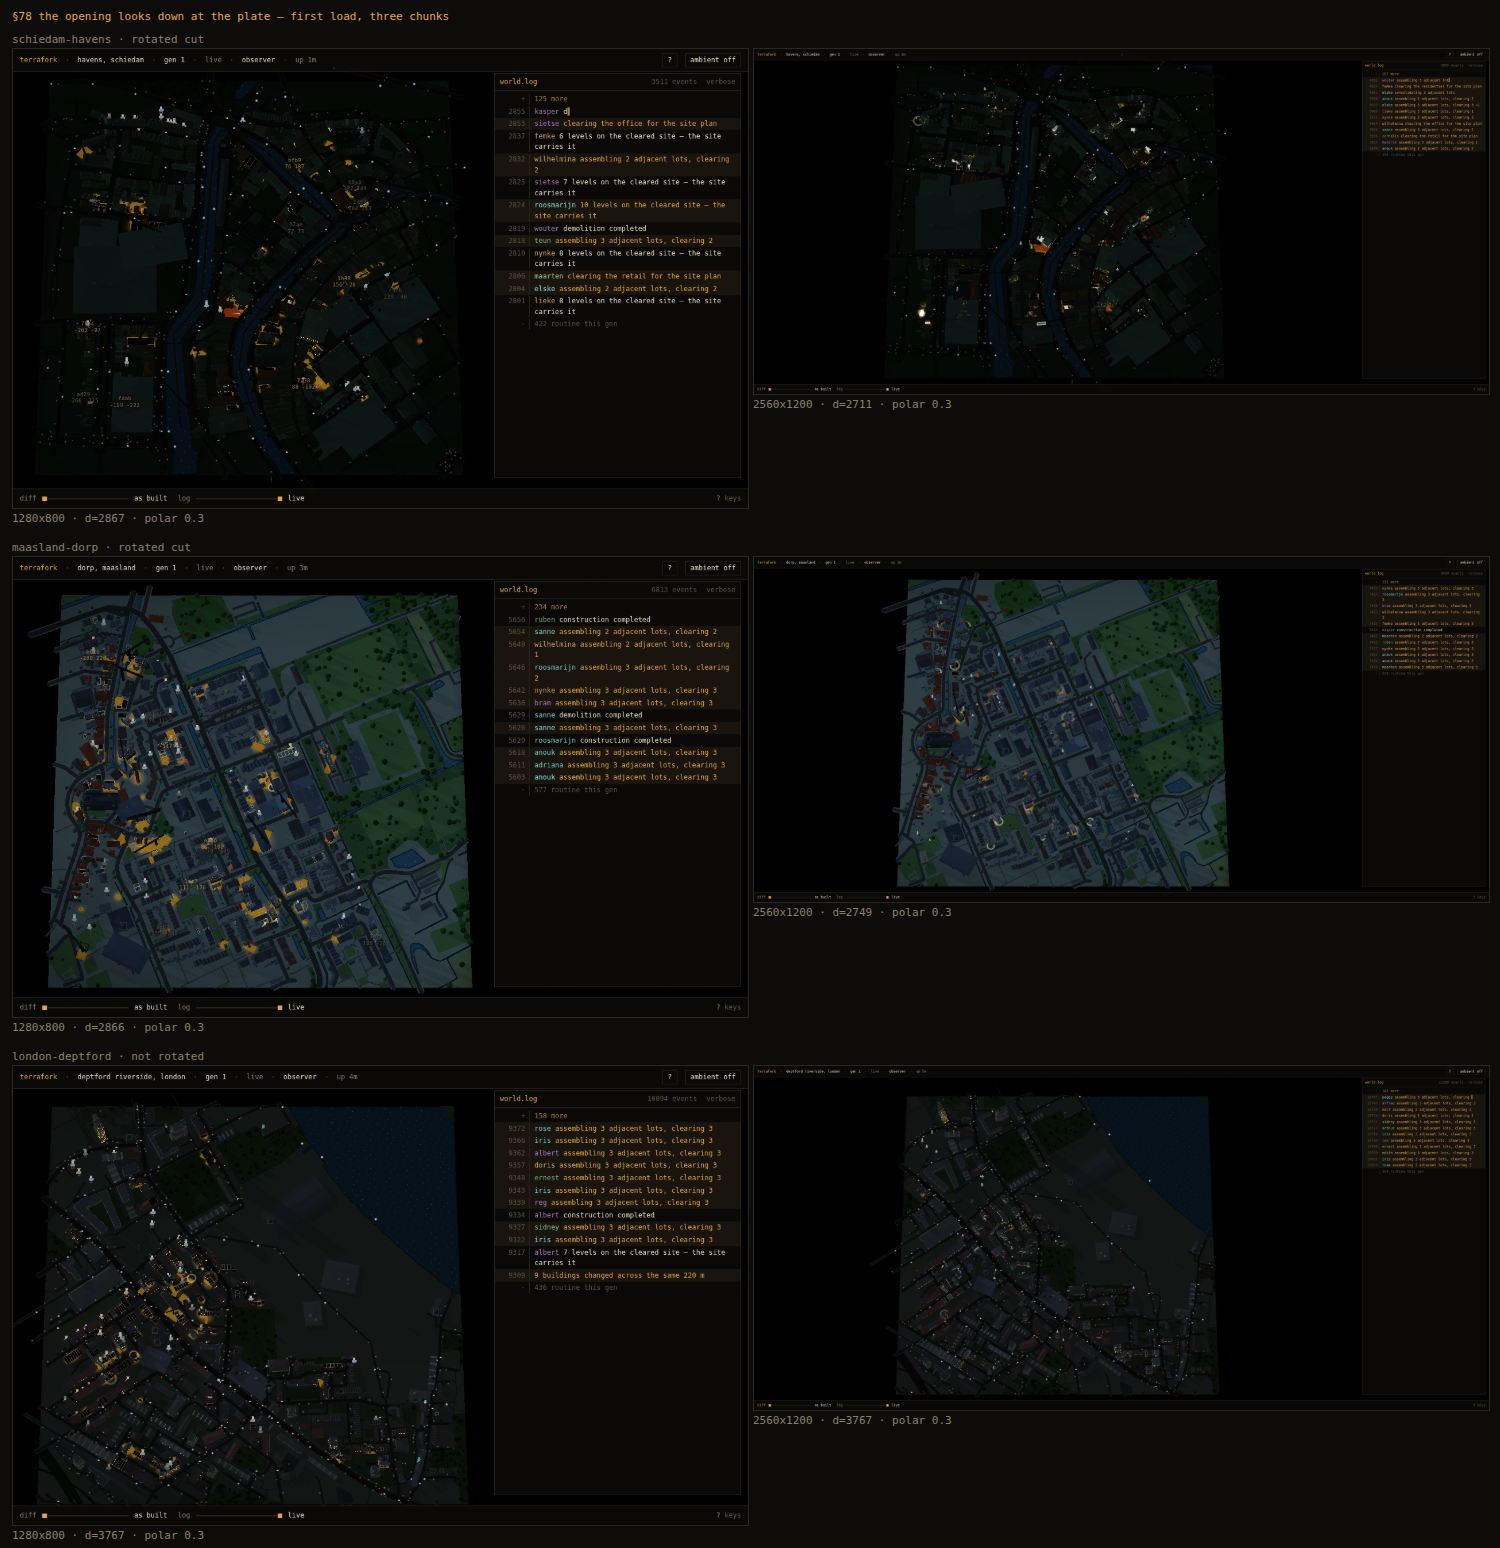
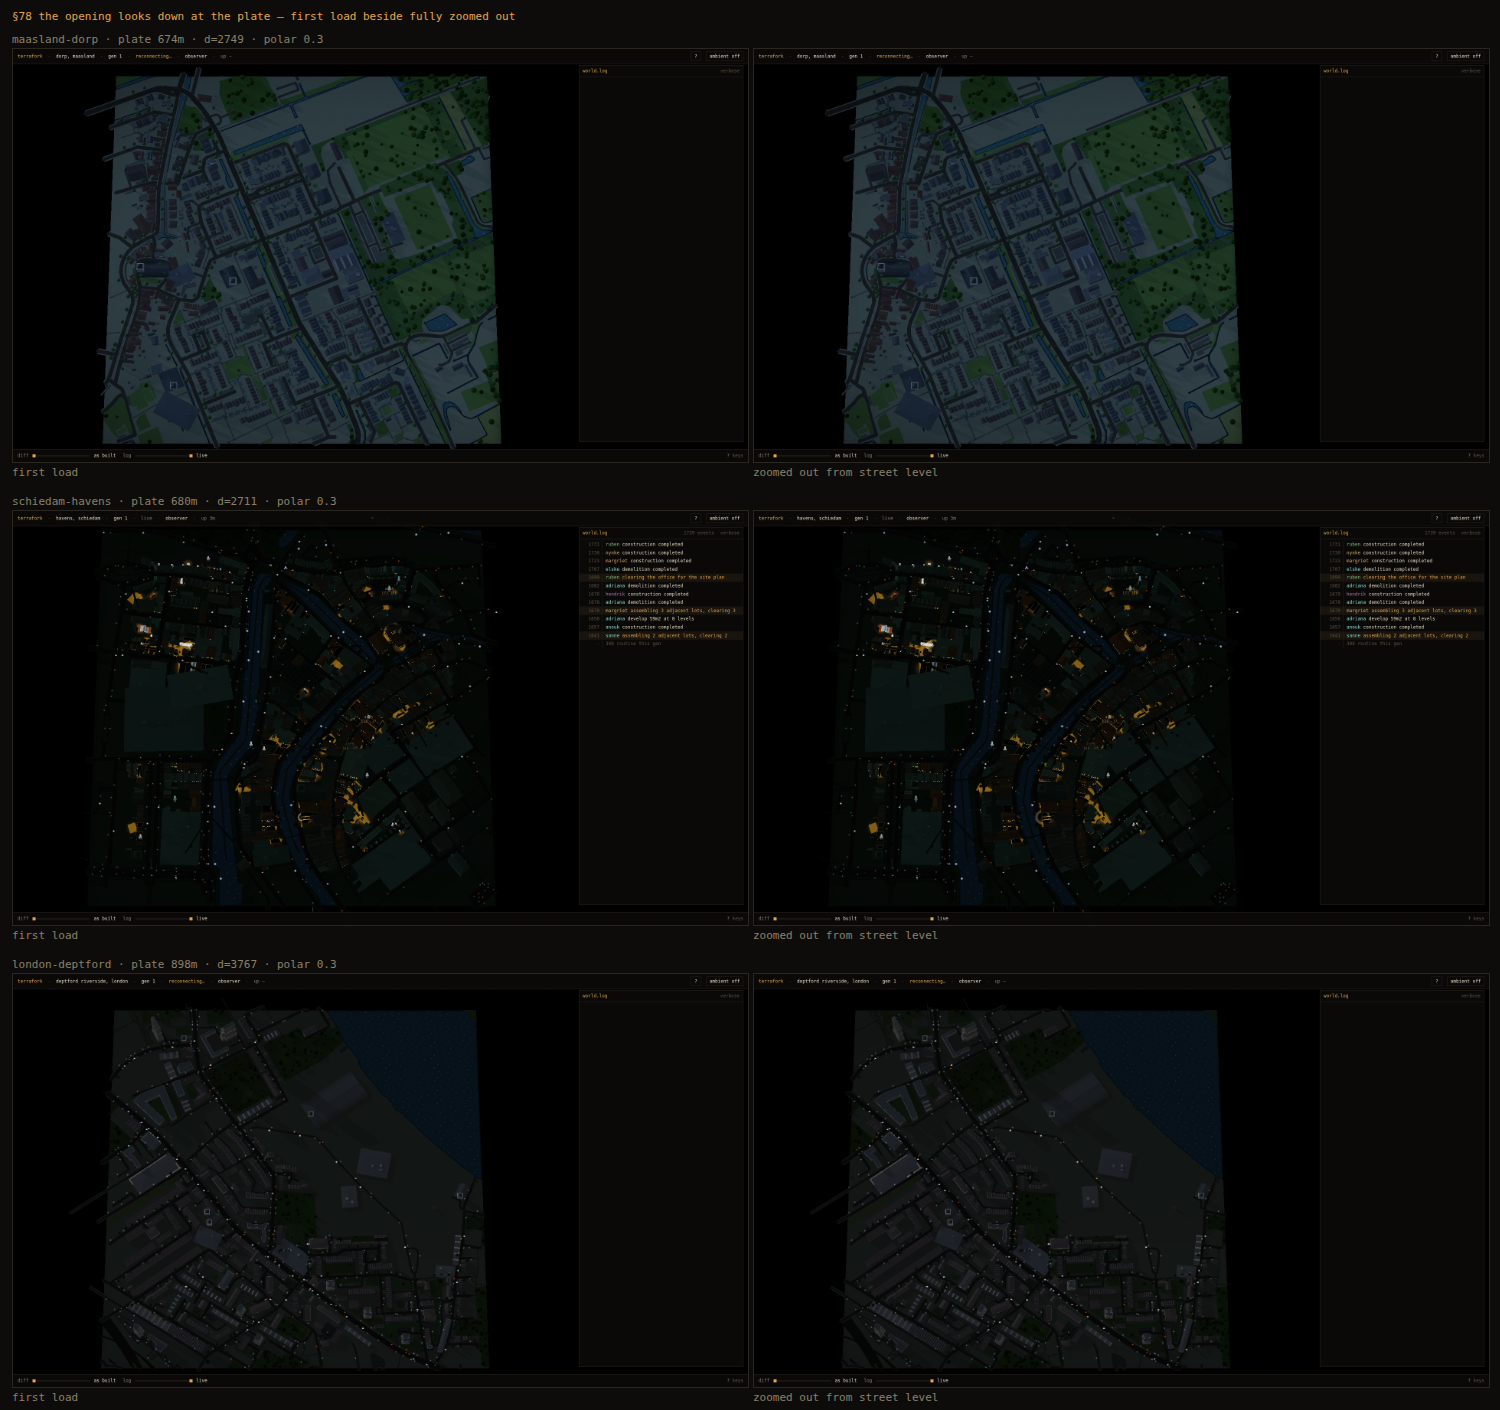
§78 acceptance: the overhead opening verified on three chunks
§78 changed the far end of the pitch curve; its acceptance had only been run
across window WIDTHS on schiedam. This runs it across the axis §78 actually
named — the chunk — because the plate's size and its relationship to the city
differ per cut, and a framing solve that works on one is not evidence about
the others.

  maasland-dorp     plate 674m   d=2749   polar 0.30   L.317 R.274 T.133 B.090
  schiedam-havens   plate 680m   d=2711   polar 0.30   L.263 R.293 T.090 B.091
  london-deptford   plate 898m   d=3767   polar 0.30   L.312 R.317 T.176 B.091

Margins are reported PER SIDE rather than as a worst corner, because "the
plate runs off three edges" was the reported symptom and a single worst-case
cannot say which edge or whether three are tight while one is generous.

4/4 pre-registered assertions hold: every side has margin, the camera is above
the city at polar 0.30 on all three, first load and fully-zoomed-out are the
same framing to the metre, and zoom-out from street level lands exactly on
maxDistance rather than short of it or past it.

The three plates differ in size (674 / 680 / 898 m), which is also the check
that the per-chunk routing is real rather than schiedam captured three times.

Judged by looking, as asked. All three show the whole fabric from above with
the fabric's own edge inside the frame on every side: maasland's village core
and green belt, deptford's terrace grain with the Thames in the corner. Both
[…]

diff --git a/tools/watch/overhead/overhead.html b/tools/watch/overhead/overhead.html
@@ -7,5 +7,14 @@
     figure{margin:0}
     img{width:100%;display:block;border:1px solid #2a2620}
     figcaption{padding-top:3px}
-   </style><h1>§78 the opening looks down at the plate — first load, three chunks</h1>
-   <section><h2>schiedam-havens · rotated cut</h2><div class="p"><figure><img src="shots/schiedam-havens-1280x800.png"><figcaption>1280x800 · d=2867 · polar 0.3</figcaption></figure><figure><img src="shots/schiedam-havens-2560x1200.png"><figcaption>2560x1200 · d=2711 · polar 0.3</figcaption></figure></div></section><section><h2>maasland-dorp · rotated cut</h2><div class="p"><figure><img src="shots/maasland-dorp-1280x800.png"><figcaption>1280x800 · d=2866 · polar 0.3</figcaption></figure><figure><img src="shots/maasland-dorp-2560x1200.png"><figcaption>2560x1200 · d=2749 · polar 0.3</figcaption></figure></div></section><section><h2>london-deptford · not rotated</h2><div class="p"><figure><img src="shots/london-deptford-1280x800.png"><figcaption>1280x800 · d=3767 · polar 0.3</figcaption></figure><figure><img src="shots/london-deptford-2560x1200.png"><figcaption>2560x1200 · d=3767 · polar 0.3</figcaption></figure></div></section>
+   </style><h1>§78 the opening looks down at the plate — first load beside fully zoomed out</h1>
+   <section><h2>maasland-dorp · plate 674m · d=2749 · polar 0.3</h2><div class="p">
+       <figure><img src="shots/maasland-dorp-first-load.png"><figcaption>first load</figcaption></figure>
+       <figure><img src="shots/maasland-dorp-zoomed-out.png"><figcaption>zoomed out from street level</figcaption></figure>
+     </div></section><section><h2>schiedam-havens · plate 680m · d=2711 · polar 0.3</h2><div class="p">
+       <figure><img src="shots/schiedam-havens-first-load.png"><figcaption>first load</figcaption></figure>
+       <figure><img src="shots/schiedam-havens-zoomed-out.png"><figcaption>zoomed out from street level</figcaption></figure>
+     </div></section><section><h2>london-deptford · plate 898m · d=3767 · polar 0.3</h2><div class="p">
+       <figure><img src="shots/london-deptford-first-load.png"><figcaption>first load</figcaption></figure>
+       <figure><img src="shots/london-deptford-zoomed-out.png"><figcaption>zoomed out from street level</figcaption></figure>
+     </div></section>
